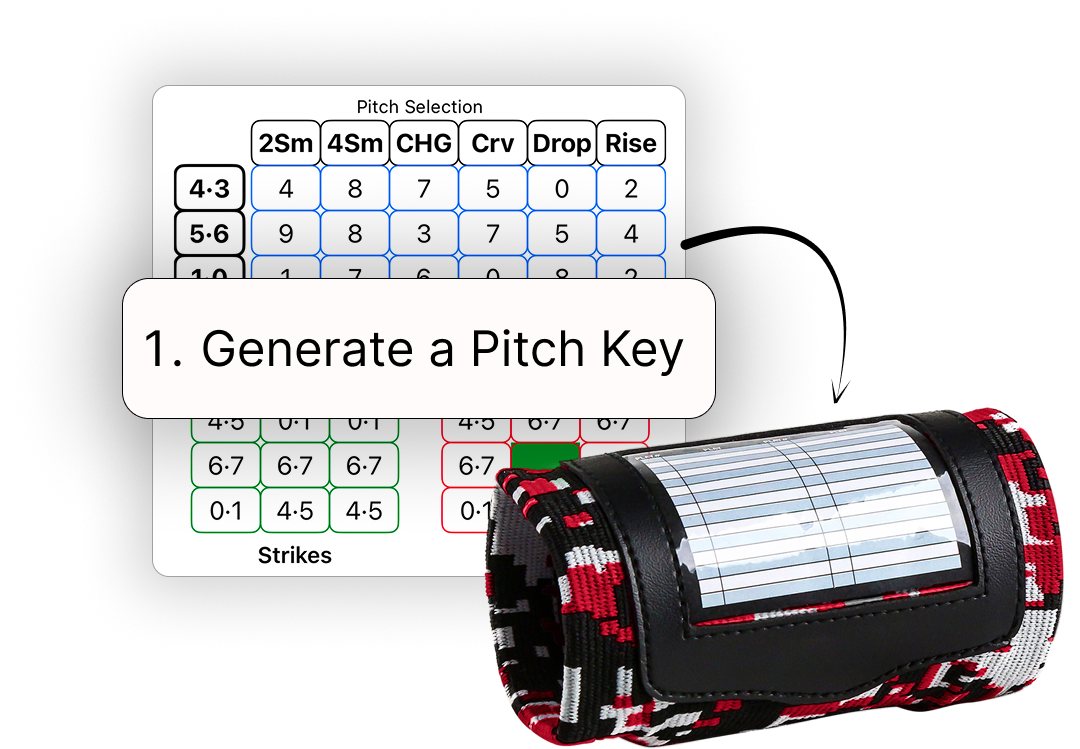
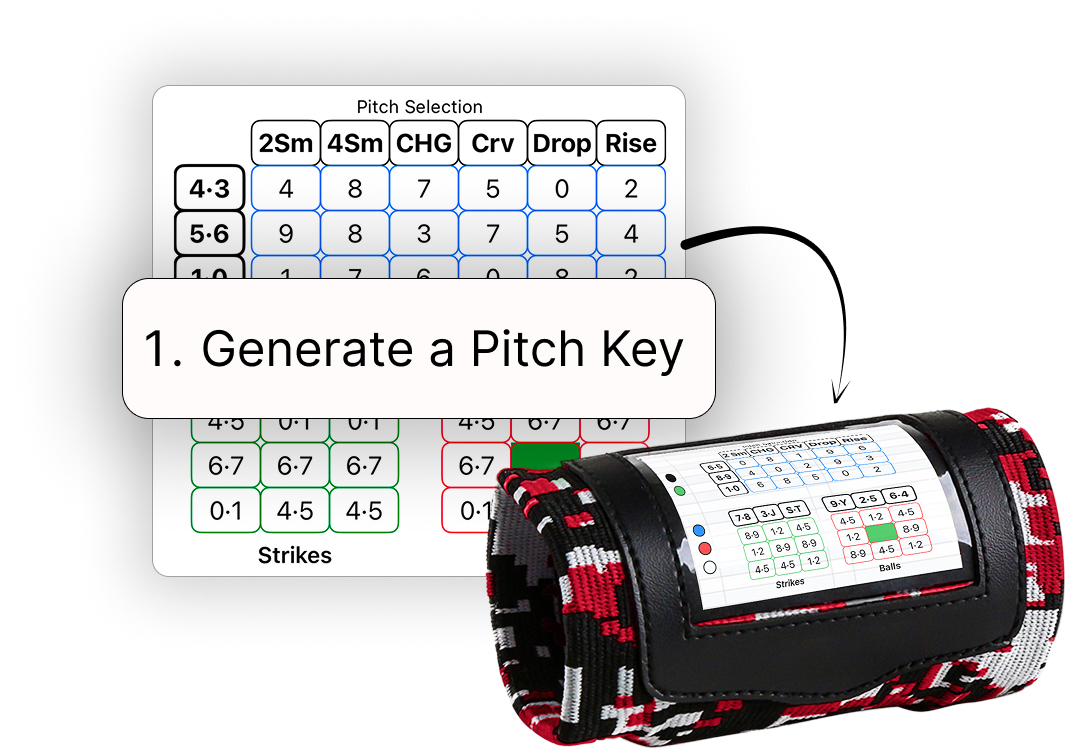
Update website hero images, top bar sizing, and activate App Store link
Replace the pitch key + arm band image, add a ballpark background,
refresh the marketing screenshot collage, swap the third feature card
to an "actively developed" callout, and enable the real App Store
badge link now that the app is live. Also bumps top bar text/logo
sizing and footer link styling.

Claude-Session: https://claude.ai/code/session_01Dw6Xt5rTX17QzRe6Go7dJX

Changed region(s): [[0.4278, 0.5527, 1.0, 0.9519], [0.4583, 0.8291, 0.6722, 1.0], [0.7028, 0.9519, 0.7639, 0.9826]]

diff --git a/public/index.html b/public/index.html
@@ -41,8 +41,14 @@
             font-family: -apple-system, BlinkMacSystemFont, "Segoe UI", Helvetica, Arial, sans-serif;
             margin: 0;
             min-height: 100vh;
-            background: #f6f7fb;
+            background: #f6f7fb url("assets/site-background.jpg") center 55% / cover no-repeat fixed;
             color: #1c1c1e;
+        }
+        @media (max-width: 480px) {
+            body {
+                background-position: 30% 55%;
+                background-attachment: scroll;
+            }
         }
         .page {
             min-height: 100vh;
@@ -71,13 +77,14 @@
         .top-bar-brand {
             display: flex;
             align-items: center;
-            gap: 12px;
+            gap: 20px;
             min-width: 0;
+            flex: 1 1 auto;
         }
         .top-bar-mark {
-            width: 40px;
-            height: 40px;
-            border-radius: 12px;
+            width: 80px;
+            height: 80px;
+            border-radius: 24px;
             background: linear-gradient(135deg, rgba(34, 197, 94, 0.16), rgba(59, 130, 246, 0.12));
             display: grid;
             place-items: center;
@@ -87,29 +94,37 @@
         }
         .top-bar-mark img {
             display: block;
-            width: 28px;
-            height: 28px;
+            width: 56px;
+            height: 56px;
             object-fit: contain;
         }
         .top-bar-text {
             display: flex;
-            flex-direction: column;
+            flex-direction: row;
+            align-items: baseline;
+            justify-content: space-between;
+            gap: 16px;
+            flex: 1 1 auto;
             min-width: 0;
         }
         .top-bar-title {
-            font-size: 18px;
+            font-size: 36px;
             line-height: 1.1;
             font-weight: 700;
             letter-spacing: -0.02em;
             color: #111827;
+            flex: 0 0 auto;
         }
         .top-bar-subtitle {
-            font-size: 12px;
+            font-size: 24px;
             line-height: 1.2;
             color: #6b7280;
             white-space: nowrap;
             overflow: hidden;
             text-overflow: ellipsis;
+            text-align: right;
+            flex: 1 1 auto;
+            min-width: 0;
         }
         .top-bar-chip {
             display: inline-flex;
@@ -246,8 +261,12 @@
             font-size: 12px;
         }
         .footer a {
-            color: #b2b7c0;
+            color: #4b5563;
             text-decoration: none;
+            background: #ffffff;
+            padding: 8px 14px;
+            border-radius: 999px;
+            box-shadow: 0 4px 12px rgba(0,0,0,0.08);
         }
         .footer a:hover { text-decoration: underline; }
         .store-badge-row {
@@ -261,9 +280,6 @@
             align-items: center;
             justify-content: center;
             text-decoration: none;
-            opacity: 0.48;
-            filter: grayscale(1) saturate(0.15);
-            pointer-events: none;
         }
         .app-store-badge img {
             display: block;
@@ -397,19 +413,29 @@
                 gap: 12px;
             }
             .top-bar-mark {
-                width: 34px;
-                height: 34px;
-                border-radius: 10px;
+                width: 60px;
+                height: 60px;
+                border-radius: 16px;
             }
             .top-bar-mark img {
-                width: 24px;
-                height: 24px;
+                width: 42px;
+                height: 42px;
+            }
+            .top-bar-text {
+                flex-direction: column;
+                align-items: flex-start;
+                justify-content: flex-start;
+                gap: 0;
             }
             .top-bar-title {
-                font-size: 16px;
+                font-size: 26px;
             }
             .top-bar-subtitle {
-                font-size: 11px;
+                font-size: 16px;
+                text-align: left;
+                white-space: normal;
+                overflow: visible;
+                text-overflow: clip;
             }
             .top-bar-chip {
                 padding: 7px 10px;
@@ -487,12 +513,8 @@
                 line-height: 1.2;
             }
             .store-badge-row {
-                position: fixed;
-                left: 50%;
-                bottom: 34px;
-                transform: translateX(-50%);
                 width: min(calc(100% - 24px), 420px);
-                margin: 0;
+                margin: 0 auto;
                 z-index: 11;
             }
             .app-store-badge img {
@@ -581,12 +603,8 @@
                 z-index: 10;
             }
             .store-badge-row {
-                position: fixed;
-                left: 50%;
-                bottom: 38px;
-                transform: translateX(-50%);
                 width: min(100% - 24px, 420px);
-                margin: 0;
+                margin: 0 auto;
                 z-index: 11;
             }
             .popup-card {
@@ -611,8 +629,12 @@
                     <div class="top-bar-subtitle">Pitch calling and tracking for softball and baseball</div>
                 </div>
             </div>
-            <div class="top-bar-chip">Coming soon</div>
         </header>
+        <div class="store-badge-row" aria-label="App Store badge">
+            <a class="app-store-badge" href="https://apps.apple.com/app/id6791446420" target="_blank" rel="noopener" aria-label="Download PitchMark on the App Store">
+        <img src="assets/download-app-store-badge.svg" alt="Download on the App Store" />
+            </a>
+        </div>
         <div class="hero-shell">
             <div class="hero" aria-label="PitchMark visual hero">
                 <div class="hero-header">
@@ -650,10 +672,10 @@
                                 alt="Available waterproof tear-proof pitch keys and backup call sheets"
                             />
                         </div>
-                        <div class="blank-square" aria-label="Developed and owned image">
+                        <div class="blank-square" aria-label="Actively developed image">
                             <img
-                                src="assets/Group%204%20(1).png"
-                                alt="Developed and owned by an old softball dad"
+                                src="assets/actively-developed-card.jpg"
+                                alt="Actively developed and adding features often. Built with travel coach input"
                             />
                         </div>
                         <div class="blank-square" aria-label="Coming soon image">
@@ -670,11 +692,6 @@
                     alt="PitchMark app feature collage"
                 />
             </div>
-        </div>
-        <div class="store-badge-row" aria-label="App Store badge placeholder">
-            <a class="app-store-badge" href="#" aria-label="Apple App Store link placeholder">
-        <img src="assets/download-app-store-badge.svg" alt="Download on the App Store" />
-            </a>
         </div>
         <nav class="footer" aria-label="App Store links">
             <a href="/support">Support</a>
